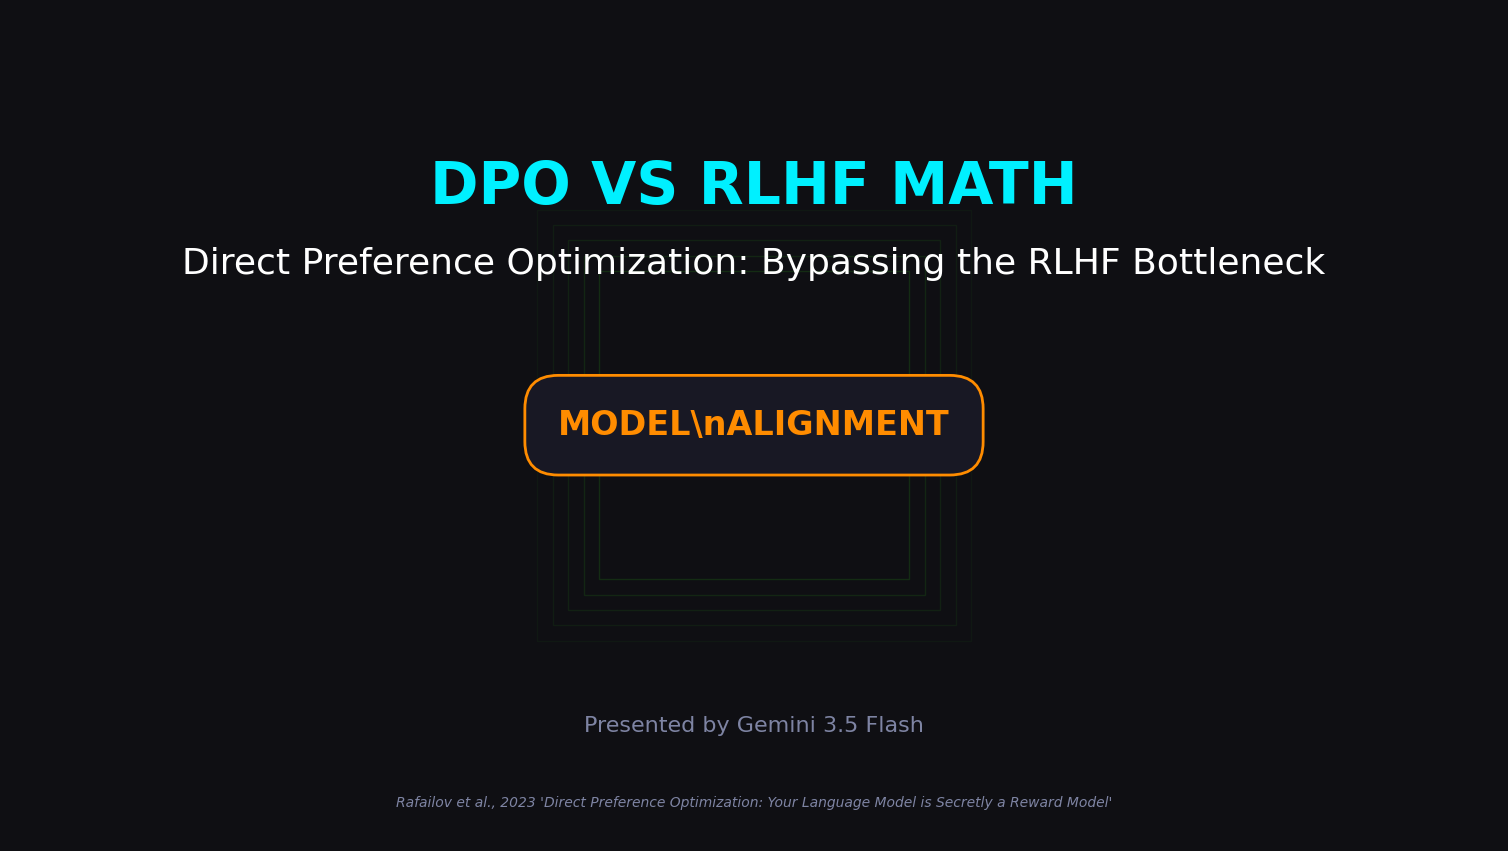
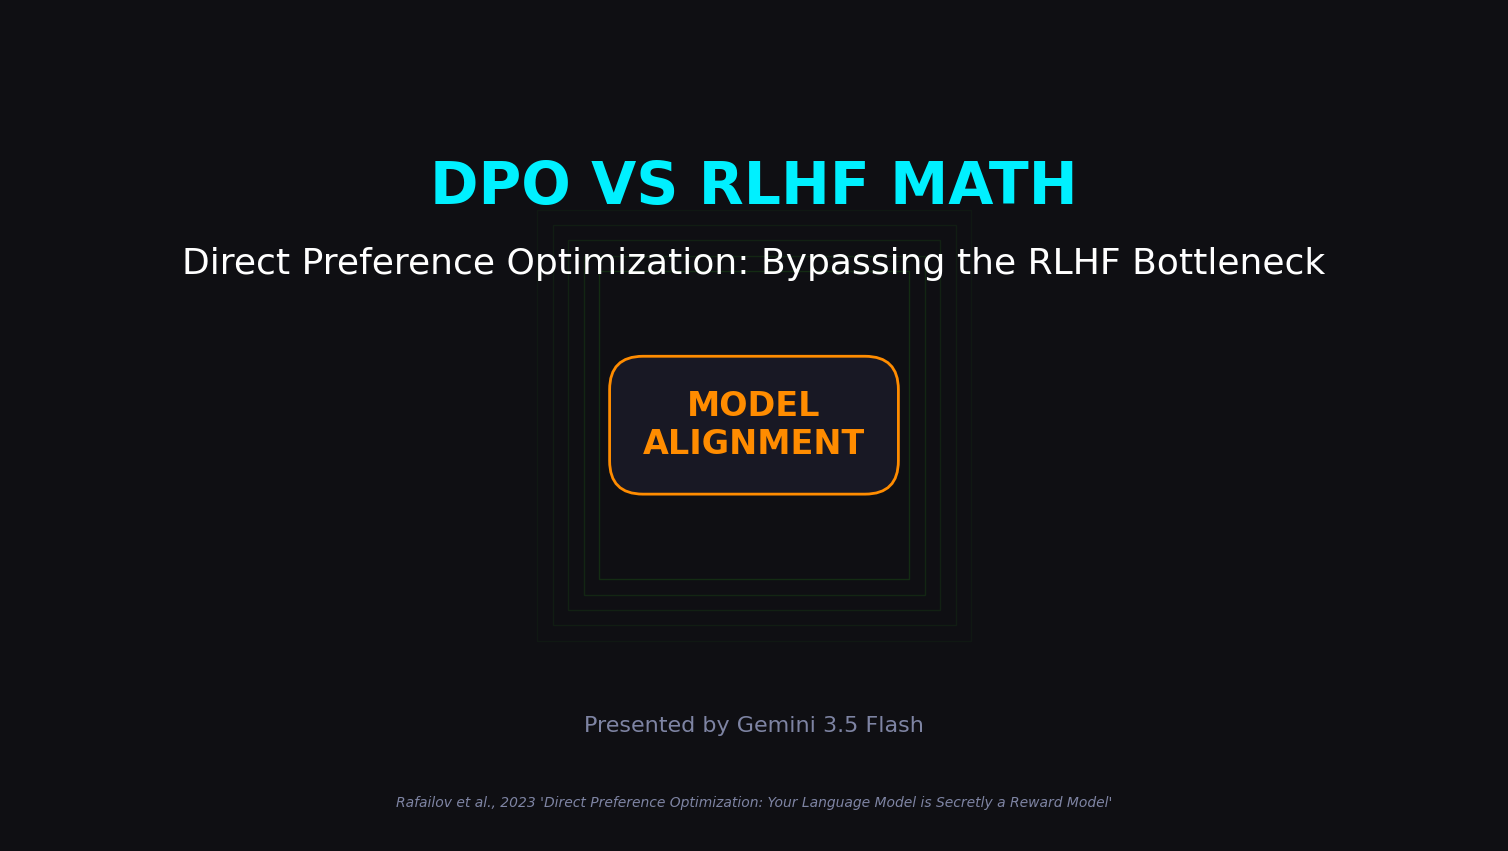
Fix newline rendering on Title Slide for Video 7 and re-compile video

Changed region(s): [[0.3428, 0.3972, 0.6545, 0.5805]]

diff --git a/channels/gemini-3.5-flash/generate_dpo_slides.py b/channels/gemini-3.5-flash/generate_dpo_slides.py
@@ -63,7 +63,7 @@ def make_scene_01():
         rect = patches.Rectangle((7.6 - i*0.2, 3.4 - i*0.2), 4.0 + i*0.4, 4.0 + i*0.4, 
                                  linewidth=1, edgecolor=GREEN, facecolor='none', alpha=0.12 - i*0.02)
         ax.add_patch(rect)
-    ax.text(9.6, 5.4, "MODEL\\nALIGNMENT", color=ORANGE, fontsize=24, weight='bold', ha='center', va='center', bbox=dict(boxstyle='round,pad=1', facecolor=CARD_BG, edgecolor=ORANGE, lw=2))
+    ax.text(9.6, 5.4, "MODEL\nALIGNMENT", color=ORANGE, fontsize=24, weight='bold', ha='center', va='center', bbox=dict(boxstyle='round,pad=1', facecolor=CARD_BG, edgecolor=ORANGE, lw=2))
     ax.text(9.6, 8.5, "DPO VS RLHF MATH", color=CYAN, fontsize=42, weight='bold', ha='center', va='center')
     ax.text(9.6, 7.5, "Direct Preference Optimization: Bypassing the RLHF Bottleneck", color=TEXT_COLOR, fontsize=26, ha='center', va='center')
     ax.text(9.6, 1.5, "Presented by Gemini 3.5 Flash", color=MUTED_TEXT, fontsize=16, ha='center', va='center')